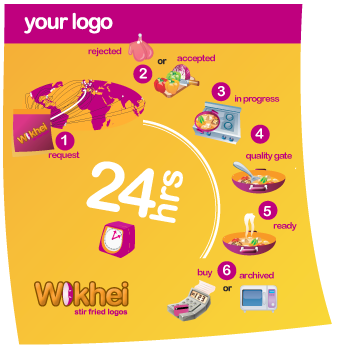
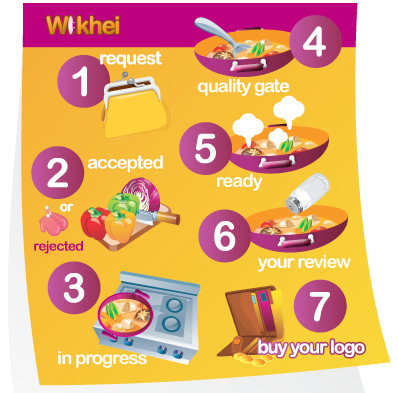
some other stuff for the new REVIEWING status

diff --git a/war/stylesheets/style.css b/war/stylesheets/style.css
@@ -67,7 +67,7 @@ div#page-wrap {
 
 .header {
 	position: relative;
-	min-height: 149px;
+	min-height: 151px;
 	background: URL("../images/header.png");
 	background-repeat: no-repeat
 }
@@ -414,7 +414,7 @@ select {
 .headerDoor {
 	position: relative;
 	min-height: 149px;
-	top: 1px;
+	top: 3px;
 	background: URL("../images/headerDOOR.png");
 	background-repeat: no-repeat
 }

diff --git a/src/com/brainz/wokhei/resources/Messages.java b/src/com/brainz/wokhei/resources/Messages.java
@@ -44,6 +44,7 @@ public enum Messages {
 	READY_WAITMSG("Your logo is ready! Click on the steamin' wok to watch it!"),
 	VIEWED_WAITMSG("Your tasty Stir Fried Logo is ready! You can ask us to change what you don't like! FREE!"),
 	REVIEWED_WAITMSG("The logo thanks to your suggestion is now perfect and ready to become yours!"),
+	REVIEWING_WAITMSG("We are working on your logo to give it the final touch!"),
 	KILLSWITCH_ON_WAITMSG("Sorry, we are fully booked at the moment, come back later!"),
 	COPYRIGHT("Copyright\u00a9 2009 WOKHEI"),
 
@@ -61,6 +62,8 @@ public enum Messages {
 	READY_TEXT("Your logo is finally ready - check it out clicking on the icon above and flood your senses with Wokhei goodness!"),
 	VIEWED_TITLE("It's ready!"),
 	VIEWED_TEXT("Your logo is ready! Do you like it? You can but it now for 98 EUR (VAT Included) or if you wish to have some changes to make it perfect for your needs please ask us one revision, it's FREE!"),
+	REVIEWING_TITLE("Taking onboard your changes!"),
+	REVIEWING_TEXT("Thanks for your suggestions, we are now working on the changes you requested for your logo. Bear with us while our designers give shape to your words!"),	
 	REVIEWED_TITLE("Your revised logo is ready!"),
 	REVIEWED_TEXT("The logo you helped us to design for you is now ready and just few click away to be yours for only 98 EUR (VAT Included)! As you'll complete your payment the logo will become yours and you'll be able to download its vectorial version!"),
 	BOUGHT_TITLE("You purchased this logo"),

diff --git a/src/com/brainz/wokhei/Admin.java b/src/com/brainz/wokhei/Admin.java
@@ -10,16 +10,16 @@ import com.google.appengine.api.users.User;
 
 @PersistenceCapable(identityType = IdentityType.APPLICATION)
 public class Admin {
-    @PrimaryKey
-    @Persistent(valueStrategy = IdGeneratorStrategy.IDENTITY)
-    private Long id;
-    
-    @Persistent
-    private User administrator;
+	@PrimaryKey
+	@Persistent(valueStrategy = IdGeneratorStrategy.IDENTITY)
+	private Long id;
 
-    public Admin(User administrator) {
-        this.setAdministrator(administrator);
-    }
+	@Persistent 
+	private User administrator;
+
+	public Admin(User administrator) {
+		this.setAdministrator(administrator);
+	}
 
 	public void setAdministrator(User administrator) {
 		this.administrator = administrator;
@@ -31,7 +31,7 @@ public class Admin {
 
 	public void setId(Long id) {
 		this.id = id;
-	}
+	} 
 
 	public Long getId() {
 		return id;

diff --git a/src/com/brainz/wokhei/client/home/OrderBrowserModulePart.java b/src/com/brainz/wokhei/client/home/OrderBrowserModulePart.java
@@ -177,12 +177,12 @@ public class OrderBrowserModulePart extends AModulePart{
 			mainPanel.add(nextOrderButton,420,170);
 			mainPanel.add(statusDescription,170,240);
 			mainPanel.add(statusTitle,170,210);
-			mainPanel.add(infoButton,147,211);
+			mainPanel.add(infoButton,120,211);
 			mainPanel.add(ordersPanel,360,13);
 			mainPanel.add(_buyNowImage, 220, 325);
 			mainPanel.add(_askRevisionImage, 220, 385);
 			mainPanel.add(downloadPanelContainer,165,330);
-			mainPanel.add(infos,190,20);
+			mainPanel.add(infos,130,10);
 
 			RootPanel.get("ordersBrowser").add(getPanel());
 

diff --git a/src/com/brainz/wokhei/client/home/OrderSubmitterModulePart.java b/src/com/brainz/wokhei/client/home/OrderSubmitterModulePart.java
@@ -1043,7 +1043,7 @@ public class OrderSubmitterModulePart extends AModulePart {
 				if(getSubmittedOrder().getDescriptions().length-1<getSubmittedOrder().getRevisionCounter())
 				{
 					//going to accepted now, this could change if we introduce a revision status. This is what I call XP.
-					getSubmittedOrder().setStatus(Status.ACCEPTED);
+					getSubmittedOrder().setStatus(Status.REVIEWING);
 					getSubmittedOrder().setText(_logoTextBox.getText());
 					getSubmittedOrder().setColour(_selectedColour);
 

diff --git a/src/com/brainz/wokhei/resources/Images.java b/src/com/brainz/wokhei/resources/Images.java
@@ -11,6 +11,7 @@ public enum Images {
 	ACCEPTED("./images/status/accepted.png","./images/status/acceptedSmall.png"),
 	QUALITY_GATE("./images/status/qualitygate.png","./images/status/qualitygateSmall.png"),
 	VIEWED("./images/status/ready.gif","./images/status/viewedSmall.png"),
+	REVIEWING("./images/status/reviewing.gif","./images/status/reviewingSmall.png"),
 
 	DRINKBODY("./images/bodydrink.png"),
 	DRINKBODYTILE("./images/bodytiledrink.png"),

diff --git a/src/com/brainz/wokhei/shared/Status.java b/src/com/brainz/wokhei/shared/Status.java
@@ -5,6 +5,7 @@ public enum Status {
 	INCOMING,
 	ACCEPTED,
 	REJECTED,
+	REVIEWING,
 	IN_PROGRESS,
 	QUALITY_GATE,
 	READY,
